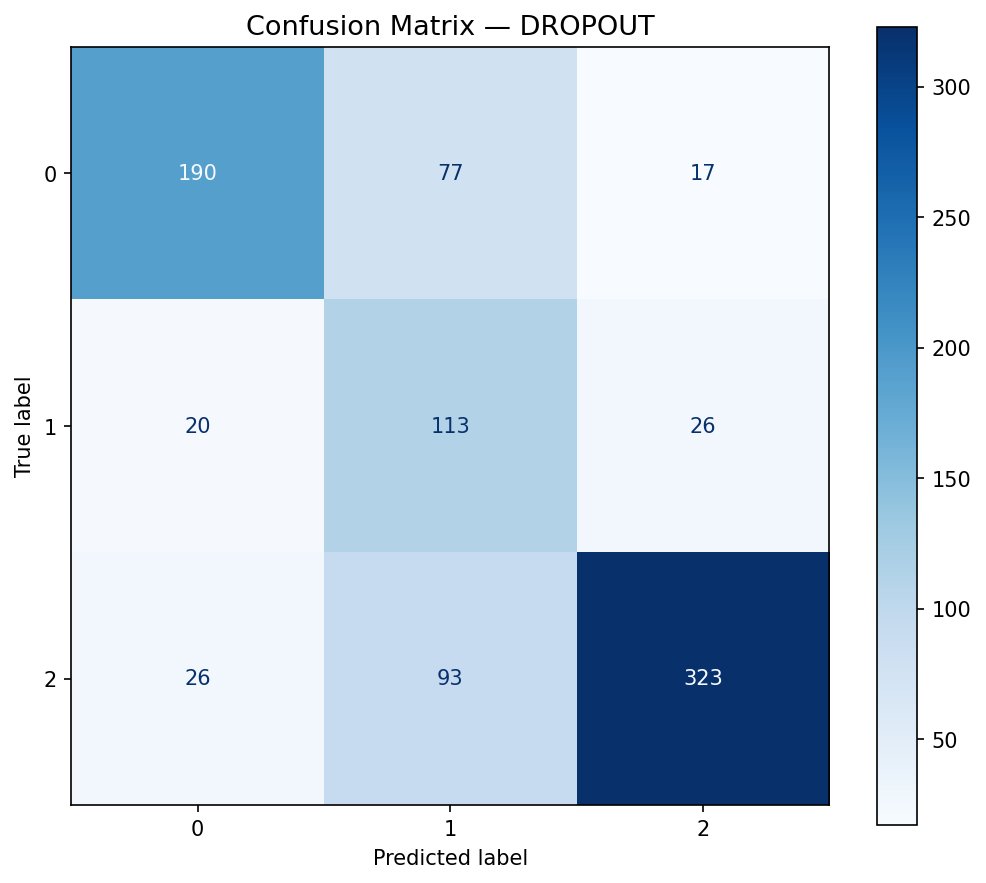
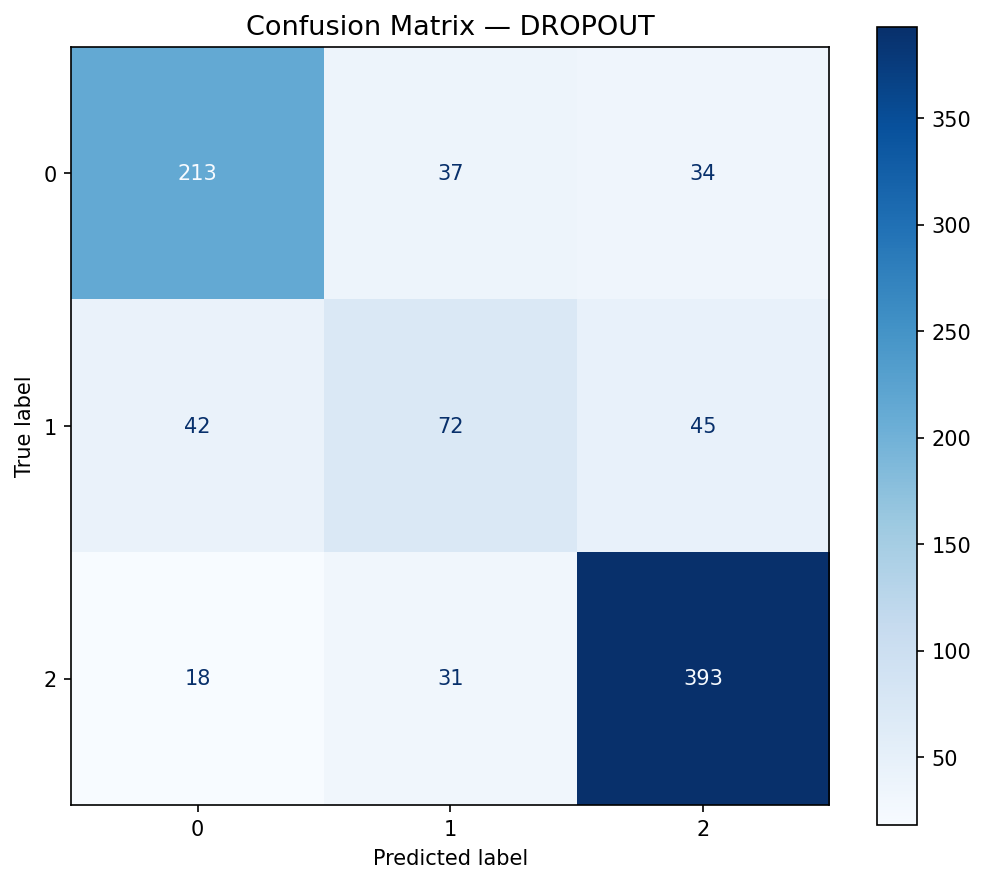
model retrained

diff --git a/student-performance-xgboost-shap/pages/1_Prediction_Engine.py b/student-performance-xgboost-shap/pages/1_Prediction_Engine.py
@@ -149,7 +149,6 @@ p { color: #94a3b8; line-height: 1.7; }
     background: currentColor;
     opacity: 0.3;
 }
-/* .outcome-emoji replaced by .outcome-icon */
 .outcome-label  { font-size: 1.65rem; font-weight: 900; display: block; margin-bottom: 0.35rem; letter-spacing: -0.02em; }
 .outcome-sub    { font-size: 0.78rem; font-weight: 600; letter-spacing: 0.06em; text-transform: uppercase; opacity: 0.6; }
 .out-high        { background: rgba(52,211,153,0.1);  border: 1px solid rgba(52,211,153,0.3);  box-shadow: 0 8px 30px rgba(52,211,153,0.08); }
@@ -393,26 +392,71 @@ def _friendly(name: str) -> str:
     """Return a human-readable label for a raw feature name."""
     return FEATURE_LABELS.get(name, name.replace('_', ' ').title())
 
+
+# ── FIX: cached artifact loader with subsampled background ───────────────────
+# @st.cache_resource ensures this runs ONCE per dataset per session.
+# The two critical changes vs the original:
+#   1. bg_df is subsampled to ≤100 rows before being passed to KernelExplainer.
+#      A large background causes nsamples to be exhausted before SHAP can write,
+#      producing the "(0,3) broadcast" ValueError.
+#   2. predict_fn uses default-arg binding (_fn=, _c=) to capture values at
+#      definition time, preventing Python late-binding bugs in loops/closures.
 @st.cache_resource
 def load_model_artifacts(dataset_name):
-    with open(MODELS_DIR / f"{dataset_name}_model.pkl",    "rb") as f: model    = pickle.load(f)
-    with open(MODELS_DIR / f"{dataset_name}_explainer.pkl","rb") as f: explainer= pickle.load(f)
-    with open(MODELS_DIR / f"{dataset_name}_pipeline.pkl", "rb") as f: pipeline = pickle.load(f)
-    # Rebuild explainer: wrap predict so SHAP's internal numpy arrays get
-    # column names back (stacking ensembles need named features).
-    bg_raw = explainer.data.data if hasattr(explainer.data, 'data') else np.array(explainer.data)
+    model_path     = MODELS_DIR / f"{dataset_name}_model.pkl"
+    explainer_path = MODELS_DIR / f"{dataset_name}_explainer.pkl"
+    pipeline_path  = MODELS_DIR / f"{dataset_name}_pipeline.pkl"
+
+    with open(model_path,     "rb") as f: model    = pickle.load(f)
+    with open(explainer_path, "rb") as f: explainer = pickle.load(f)
+    with open(pipeline_path,  "rb") as f: pipeline = pickle.load(f)
+
+    # Reconstruct background DataFrame
+    bg_raw = (
+        explainer.data.data
+        if hasattr(explainer.data, 'data')
+        else np.array(explainer.data)
+    )
     bg_df = pd.DataFrame(bg_raw, columns=pipeline['selected_features'])
+
+    # FIX 1 ── Subsample background to ≤100 rows.
+    # KernelExplainer allocates self.y with shape (nsamples * N, D).
+    # When N is large, even nsamples="auto" can overflow the pre-allocated
+    # array. 100 rows is the SHAP-recommended maximum for KernelExplainer.
+    if len(bg_df) > 100:
+        bg_df = shap.sample(bg_df, 100, random_state=42)
+
     cols = list(pipeline['selected_features'])
+
+    # FIX 2 ── Default-arg binding prevents late-binding closure bugs.
     if hasattr(model, 'predict_proba'):
-        _raw = model.predict_proba
-        def predict_fn(X):
-            return _raw(pd.DataFrame(X, columns=cols))
+        def predict_fn(X, _fn=model.predict_proba, _c=cols):
+            return _fn(pd.DataFrame(X, columns=_c))
     else:
-        _raw = model.predict
-        def predict_fn(X):
-            return _raw(pd.DataFrame(X, columns=cols))
+        def predict_fn(X, _fn=model.predict, _c=cols):
+            return _fn(pd.DataFrame(X, columns=_c))
+
     explainer = shap.KernelExplainer(predict_fn, bg_df)
     return model, explainer, pipeline
+
+
+# ── SHAP caching by input hash ───────────────────────────────────────────────
+# Avoids recomputing SHAP on every widget interaction (Streamlit reruns the
+# whole script on each slider/selectbox change). We store the result in
+# session_state keyed by (dataset, input_hash) so it is only recomputed when
+# the student profile actually changes.
+def _compute_shap(explainer, input_df_selected: pd.DataFrame,
+                  dataset_key: str, task_type: str):
+    cache_key = f"shap_{dataset_key}_{pd.util.hash_pandas_object(input_df_selected).sum()}"
+    if cache_key not in st.session_state:
+        # FIX 3 ── nsamples="auto" lets SHAP compute the correct count
+        # (2*M + 2^M, capped at a safe maximum) rather than a hard-coded 200
+        # that could be too low for the feature count, causing the (0,3) error.
+        st.session_state[cache_key] = explainer.shap_values(
+            input_df_selected, nsamples="auto"
+        )
+    return st.session_state[cache_key]
+
 
 # ── Page header ───────────────────────────────────────────────────────────────
 st.markdown("""
@@ -446,7 +490,13 @@ st.markdown(f'<span class="ds-pill {pill_cls}">{pill_label}</span>', unsafe_allo
 try:
     model, explainer, pipeline = load_model_artifacts(dataset_key)
 except FileNotFoundError:
-    st.error("Model artifacts not found. Run: `python src/train.py`")
+    st.error(
+        "Model artifacts not found for this dataset. "
+        "Please run: `python src/train.py` — then refresh this page."
+    )
+    st.stop()
+except Exception as e:
+    st.error(f"Failed to load model artifacts: {e}")
     st.stop()
 
 raw_features = pipeline['raw_features']
@@ -459,6 +509,8 @@ SVG_USER = "<svg viewBox='0 0 24 24'><path d='M20 21v-2a4 4 0 0 0-4-4H8a4 4 0 0 
 st.markdown(f"""<div class='section-label' style='margin-top:0.5rem'><span class='section-icon'>{SVG_USER}</span>Student Profile Builder</div>""", unsafe_allow_html=True)
 
 # Ordinal features displayed as descriptive dropdowns: {feature: {label: value}}
+# FIX 4 ── Corrected typo: 'health' option "2 – Poor" was mapped to value 3
+#           (copy-paste error from "3 – Average"). Corrected to 2.
 ORDINAL_OPTIONS = {
     'Medu': {
         "None (0)": 0, "Primary – 4th Grade (1)": 1,
@@ -499,8 +551,11 @@ ORDINAL_OPTIONS = {
         "4 – High": 4, "5 – Very High": 5,
     },
     'health': {
-        "1 – Very Poor": 1, "2 – Poor": 3, "3 – Average": 3,
-        "4 – Good": 4, "5 – Very Good": 5,
+        "1 – Very Poor": 1,
+        "2 – Poor": 2,       # FIX: was incorrectly 3
+        "3 – Average": 3,
+        "4 – Good": 4,
+        "5 – Very Good": 5,
     },
     'failures': {
         "None": 0, "1 failure": 1, "2 failures": 2,
@@ -548,6 +603,103 @@ SLIDER_CONFIG = {
     'GDP':                (-5.0, 5.0, 1.0, 0.1),
 }
 
+CATEGORICAL_MAPPINGS = {
+    # UCI Student Performance
+    'school': {
+        'GP': 'Gabriel Pereira',
+        'MS': 'Mousinho da Silveira'
+    },
+    'sex': {
+        'F': 'Female',
+        'M': 'Male'
+    },
+    'address': {
+        'R': 'Rural',
+        'U': 'Urban'
+    },
+    'famsize': {
+        'GT3': 'Greater than 3 members',
+        'LE3': '3 or fewer members'
+    },
+    'Pstatus': {
+        'A': 'Apart',
+        'T': 'Together'
+    },
+    'Mjob': {
+        'at_home': 'At Home',
+        'health': 'Health Care',
+        'other': 'Other',
+        'services': 'Civil Services',
+        'teacher': 'Teacher'
+    },
+    'Fjob': {
+        'at_home': 'At Home',
+        'health': 'Health Care',
+        'other': 'Other',
+        'services': 'Civil Services',
+        'teacher': 'Teacher'
+    },
+    'reason': {
+        'course': 'Course Preference',
+        'home': 'Close to Home',
+        'other': 'Other',
+        'reputation': 'School Reputation'
+    },
+    'guardian': {
+        'father': 'Father',
+        'mother': 'Mother',
+        'other': 'Other'
+    },
+    'schoolsup': {'no': 'No', 'yes': 'Yes'},
+    'famsup': {'no': 'No', 'yes': 'Yes'},
+    'paid': {'no': 'No', 'yes': 'Yes'},
+    'activities': {'no': 'No', 'yes': 'Yes'},
+    'nursery': {'no': 'No', 'yes': 'Yes'},
+    'higher': {'no': 'No', 'yes': 'Yes'},
+    'internet': {'no': 'No', 'yes': 'Yes'},
+    'romantic': {'no': 'No', 'yes': 'Yes'},
+    
+    # xAPI Educational Data
+    'gender': {
+        'F': 'Female',
+        'M': 'Male'
+    },
+    'NationalITy': {
+        'Egypt': 'Egypt', 'Iran': 'Iran', 'Iraq': 'Iraq', 'Jordan': 'Jordan',
+        'KW': 'Kuwait', 'KuwaIT': 'Kuwait', 'Lybia': 'Libya', 'Morocco': 'Morocco',
+        'Palestine': 'Palestine', 'SaudiArabia': 'Saudi Arabia', 'Syria': 'Syria',
+        'Tunis': 'Tunisia', 'USA': 'USA', 'lebanon': 'Lebanon', 'venzuela': 'Venezuela'
+    },
+    'PlaceofBirth': {
+        'Egypt': 'Egypt', 'Iran': 'Iran', 'Iraq': 'Iraq', 'Jordan': 'Jordan',
+        'KuwaIT': 'Kuwait', 'Lybia': 'Libya', 'Morocco': 'Morocco',
+        'Palestine': 'Palestine', 'SaudiArabia': 'Saudi Arabia', 'Syria': 'Syria',
+        'Tunis': 'Tunisia', 'USA': 'USA', 'lebanon': 'Lebanon', 'venzuela': 'Venezuela'
+    },
+    'StageID': {
+        'HighSchool': 'High School',
+        'MiddleSchool': 'Middle School',
+        'lowerlevel': 'Lower Level'
+    },
+    'Semester': {
+        'F': 'Fall',
+        'S': 'Spring'
+    },
+    'Relation': {
+        'Father': 'Father',
+        'Mum': 'Mother'
+    },
+    'ParentAnsweringSurvey': {'No': 'No', 'Yes': 'Yes'},
+    'ParentschoolSatisfaction': {
+        'Bad': 'Bad / Dissatisfied',
+        'Good': 'Good / Satisfied'
+    },
+    'StudentAbsenceDays': {
+        'Above-7': 'Above 7 days',
+        'Under-7': 'Under 7 days'
+    },
+}
+
 def _slider_range(feature):
     """Return (min, max, default, step) for a feature, with sensible fallback."""
     return SLIDER_CONFIG.get(feature, (0.0, 20.0, 10.0, 1.0))
@@ -567,10 +719,14 @@ def _render_feature(feature, suffix=""):
     if feature in num_cols:
         lo, hi, default, step = _slider_range(feature)
         return st.slider(label, lo, hi, default, step=step, key=key)
-    # 3. Categorical features → dropdown with dataset classes
+    # 3. Categorical features → dropdown with dataset classes (mapped to friendly names)
     if feature in cat_cols:
         classes = cat_classes.get(feature, ["Unknown"])
-        return st.selectbox(label, classes, key=key)
+        mapping = CATEGORICAL_MAPPINGS.get(feature, {})
+        display_to_raw = {mapping.get(c, c): c for c in classes}
+        labels = list(display_to_raw.keys())
+        choice = st.selectbox(label, labels, key=key)
+        return display_to_raw[choice]
     return None
 
 user_input = {}
@@ -599,10 +755,13 @@ if num_cols:
 if cat_cols:
     input_df[cat_cols] = pipeline['cat_imputer'].transform(input_df[cat_cols])
     input_df[cat_cols] = pipeline['encoder'].transform(input_df[cat_cols].astype(str))
-input_df_scaled   = pd.DataFrame(pipeline['scaler'].transform(input_df), columns=input_df.columns)
-input_df_selected = input_df_scaled[pipeline['selected_features']]
+input_df_scaled   = pd.DataFrame(
+    pipeline['scaler'].transform(input_df), columns=input_df.columns
+)
+# .copy() prevents downstream mutations from poisoning the cached DataFrame
+input_df_selected = input_df_scaled[pipeline['selected_features']].copy()
 
-# ── Results layout — full-width stacked for readability ───────────────────────
+# ── Results layout ────────────────────────────────────────────────────────────
 st.markdown("<div style='height:0.5rem'></div>", unsafe_allow_html=True)
 
 # class info — covers both xAPI (0=Low,1=Med,2=High) and Dropout (0=Dropout,1=Enrolled,2=Graduate)
@@ -613,7 +772,7 @@ class_info = {
     3: ("Distinction",      "out-distinction",  "<svg viewBox='0 0 24 24'><polygon points='12 2 15.09 8.26 22 9.27 17 14.14 18.18 21.02 12 17.77 5.82 21.02 7 14.14 2 9.27 8.91 8.26 12 2'/></svg>",         "#fbbf24"),
 }
 
-# ── Prediction result (full width) ────────────────────────────────────────────
+# ── Prediction result ─────────────────────────────────────────────────────────
 st.markdown("<div class='result-card'><div class='result-card-title'><span class='section-icon'><svg viewBox='0 0 24 24'><line x1='18' y1='20' x2='18' y2='10'/><line x1='12' y1='20' x2='12' y2='4'/><line x1='6' y1='20' x2='6' y2='14'/></svg></span>Prediction Result</div>", unsafe_allow_html=True)
 
 if task_type == 'regression':
@@ -641,7 +800,7 @@ else:
     </div>
     """, unsafe_allow_html=True)
 
-    # Confidence bars (custom rendered)
+    # Confidence bars
     conf_cols = st.columns(len(pred_probs))
     for i, (p, cc) in enumerate(zip(pred_probs, conf_cols)):
         lbl, _, ico, col = class_info.get(i, (f"Class {i}", "", "", "#818cf8"))
@@ -662,8 +821,7 @@ else:
 
 st.markdown('</div>', unsafe_allow_html=True)
 
-# ── SHAP Force Plot (full width for readability) ──────────────────────────────
-# Rename features to human-readable labels for the SHAP display
+# ── SHAP Force Plot ───────────────────────────────────────────────────────────
 input_display = input_df_selected.rename(columns=FEATURE_LABELS)
 
 st.markdown("""
@@ -676,29 +834,38 @@ st.markdown("""
     </div>
 """, unsafe_allow_html=True)
 
-with st.spinner("Computing SHAP explanation..."):
-    shap_values = explainer.shap_values(input_df_selected, nsamples=200)
+with st.spinner("Computing SHAP explanation…"):
+    # FIX: uses session_state cache + nsamples="auto" + subsampled background
+    shap_values = _compute_shap(explainer, input_df_selected, dataset_key, task_type)
     try:
         if task_type == 'regression':
+            # KernelExplainer on a regressor returns ndarray (not a list)
             val     = shap_values[0] if isinstance(shap_values, list) else shap_values
             exp_val = explainer.expected_value
-            st_shap(shap.force_plot(float(exp_val), val, input_display), height=280)
+            if hasattr(exp_val, '__len__'):
+                exp_val = float(exp_val[0])
+            st_shap(shap.force_plot(float(exp_val), np.array(val).flatten(), input_display), height=280)
         else:
             if isinstance(shap_values, list):
                 val     = shap_values[int(pred_class)]
-                exp_val = (explainer.expected_value[int(pred_class)]
-                           if hasattr(explainer.expected_value, '__len__')
-                           else explainer.expected_value)
+                exp_val = (
+                    explainer.expected_value[int(pred_class)]
+                    if hasattr(explainer.expected_value, '__len__')
+                    else explainer.expected_value
+                )
             else:
                 val     = shap_values
                 exp_val = explainer.expected_value
-            st_shap(shap.force_plot(float(exp_val), val, input_display), height=280)
+            st_shap(shap.force_plot(float(exp_val), np.array(val).flatten(), input_display), height=280)
     except Exception as e:
-        st.warning(f"Force plot unavailable: {e}")
+        st.warning(
+            f"Force plot could not be rendered: {e}\n\n"
+            "The feature contributions table below still shows the full SHAP breakdown."
+        )
 
 st.markdown('</div>', unsafe_allow_html=True)
 
-# ── Feature contributions table (full width) ──────────────────────────────────
+# ── Feature contributions table ───────────────────────────────────────────────
 st.markdown("<div style='height:1rem'></div>", unsafe_allow_html=True)
 try:
     if isinstance(shap_values, list):

diff --git a/student-performance-xgboost-shap/src/train.py b/student-performance-xgboost-shap/src/train.py
@@ -179,17 +179,8 @@ class ModelTrainer:
         logger.info("Building SHAP KernelExplainer (using sampled background)...")
         bg_size = min(50, len(X_train_selected))
         background = X_train_selected.sample(n=bg_size, random_state=42).reset_index(drop=True)
-        # Wrap predict so SHAP's internal numpy arrays always get column names
-        feat_cols = list(X_train_selected.columns)
-        if task_type == 'regression':
-            _raw_predict = model.predict
-            def predict_fn(X, _fn=_raw_predict, _c=feat_cols):
-                return _fn(pd.DataFrame(X, columns=_c))
-        else:
-            _raw_predict = model.predict_proba
-            def predict_fn(X, _fn=_raw_predict, _c=feat_cols):
-                return _fn(pd.DataFrame(X, columns=_c))
-        explainer = shap.KernelExplainer(predict_fn, background)
+        raw_pred_fn = model.predict if task_type == 'regression' else model.predict_proba
+        explainer = shap.KernelExplainer(raw_pred_fn, background)
 
         # ---- 13. Save artifacts -------------------------------------------
         self._save_artifacts(